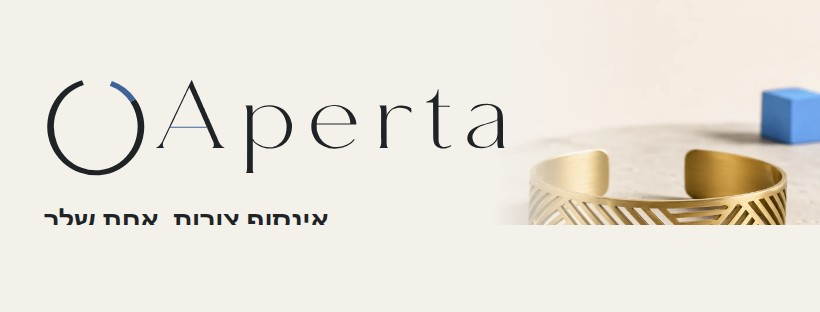
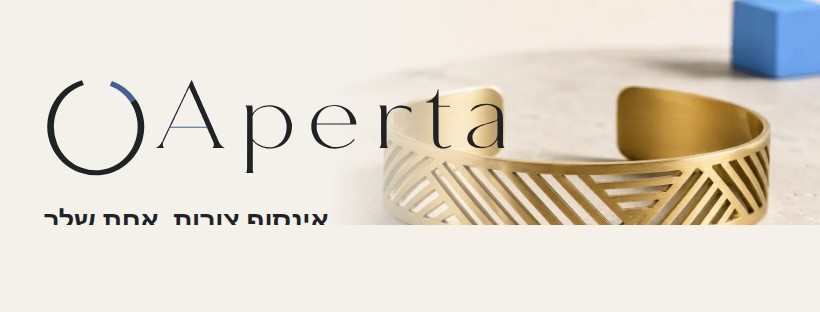
Fix Facebook cover crop and drop hardcoded price from product post
The bracelet was getting sliced by the porcelain fade in the Facebook/X
cover template (the photo panel was too narrow relative to the crop).
Widened the panel and retuned the crop so the whole bracelet reads
cleanly at both cover sizes.

Also swaps the "מ-₪399" price on the product post for an evergreen
"לעצב עכשיו" CTA — a static graphic shouldn't bake in a price that will
go stale.

Changed region(s): [[0.4268, 0.0, 1.0, 0.7212], [0.4878, 0.2308, 0.5488, 0.2596]]

diff --git a/docs/brand/social/build-social-assets.py b/docs/brand/social/build-social-assets.py
@@ -100,10 +100,11 @@ write("profile.html", profile, size=(1000, 1000))
 
 # ---------------------------------------------------------------- 2/3. Covers
 def cover_html(w, h, mark_h):
+    panel_w = w * 0.6
     return f'''<!doctype html><html><head><meta charset="utf-8">{FONTS_LINK}<style>{BASE_CSS}
 html,body{{width:{w}px;height:{h}px;background:var(--porcelain);position:relative;overflow:hidden;font-family:'Assistant',sans-serif;}}
-.photo{{position:absolute;top:0;bottom:0;right:0;width:{h*1.05:.0f}px;background-image:url('{photo_url("bracelet-hero.webp")}');background-size:cover;background-position:38% 30%;}}
-.fade{{position:absolute;top:0;bottom:0;right:0;width:{h*1.05:.0f}px;background:linear-gradient(to right, var(--porcelain) 0%, rgba(244,241,235,0) 46%);}}
+.photo{{position:absolute;top:0;bottom:0;right:0;width:{panel_w:.0f}px;background-image:url('{photo_url("bracelet-hero.webp")}');background-size:cover;background-position:60% 60%;}}
+.fade{{position:absolute;top:0;bottom:0;right:0;width:{panel_w:.0f}px;background:linear-gradient(to right, var(--porcelain) 0%, rgba(244,241,235,0) 45%);}}
 .content{{position:absolute;top:0;bottom:0;left:{h*0.14:.0f}px;display:flex;flex-direction:column;justify-content:center;gap:{h*0.09:.0f}px;}}
 .tagline{{font-size:{h*0.088:.0f}px;color:var(--graphite);font-weight:600;letter-spacing:-0.01em;}}
 .tagline .accent{{color:var(--lapis-ink);}}
@@ -145,7 +146,7 @@ html,body{{width:1080px;height:1080px;background:var(--porcelain);position:relat
 .card{{position:absolute;bottom:80px;left:80px;right:80px;background:rgba(244,241,235,0.92);backdrop-filter:blur(6px);border-radius:28px;padding:44px 52px;display:flex;align-items:center;justify-content:space-between;}}
 .name{{font-family:'Archivo',sans-serif;font-weight:700;font-size:46px;color:var(--graphite);}}
 .desc{{font-size:26px;color:var(--graphite);opacity:0.7;margin-top:10px;font-weight:400;}}
-.price{{font-family:'Archivo',sans-serif;font-weight:700;font-size:40px;color:var(--lapis-ink);white-space:nowrap;}}
+.cta{{font-family:'Archivo',sans-serif;font-weight:700;font-size:32px;color:var(--lapis-ink);white-space:nowrap;}}
 </style></head><body>
 <div class="photo"></div>
 <div class="top">{mark_svg(70)}</div>
@@ -154,7 +155,7 @@ html,body{{width:1080px;height:1080px;background:var(--porcelain);position:relat
 <div class="name">צמיד פתוח</div>
 <div class="desc">פליז 1.5 מ״מ, חיתוך לייזר, עיצוב שלך</div>
 </div>
-<div class="price">מ-₪399</div>
+<div class="cta">לעצב עכשיו ←</div>
 </div>
 </body></html>'''
 write("post-product.html", post_product, size=(1080, 1080))
